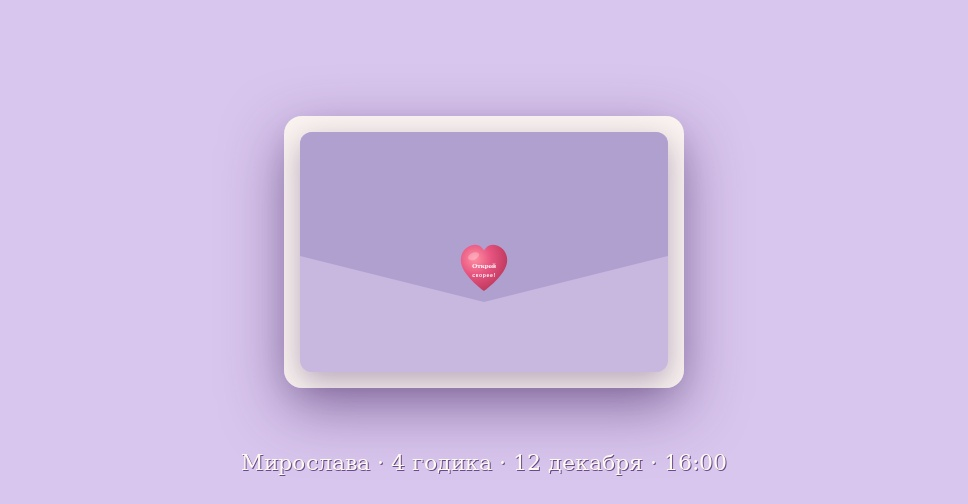
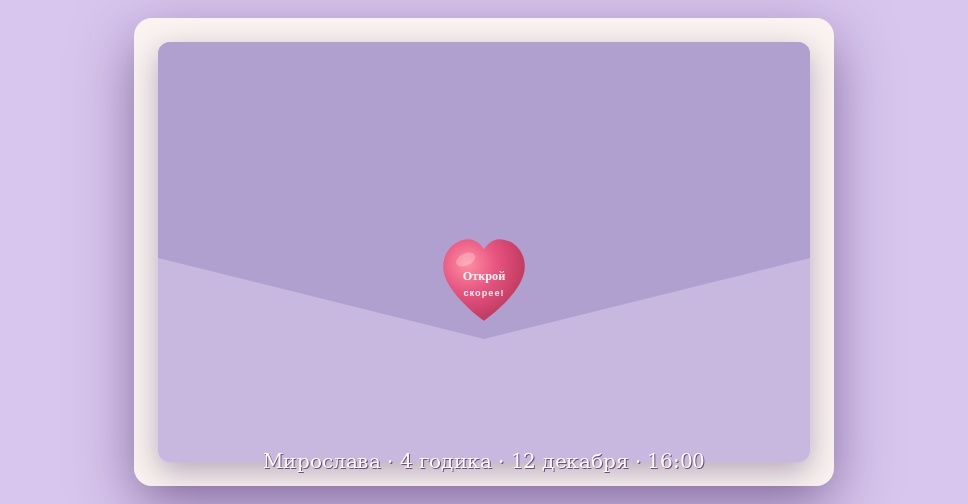
rev8

diff --git a/index.html b/index.html
@@ -8,8 +8,8 @@
 <!-- Open Graph / Превью ссылки -->
 <meta property="og:title" content="Мирочка приглашает!">
 <meta property="og:description" content="Приглашение на день рождения Мирославы! 4 годика · 12 декабря · балет Щелкунчик">
-<meta property="og:image" content="https://miroslavasysoeva.ru/og_preview.jpg?v=14">
-<meta property="og:image:secure_url" content="https://miroslavasysoeva.ru/og_preview.jpg?v=14">
+<meta property="og:image" content="https://miroslavasysoeva.ru/og_preview.jpg?v=16">
+<meta property="og:image:secure_url" content="https://miroslavasysoeva.ru/og_preview.jpg?v=16">
 <meta property="og:image:width" content="968">
 <meta property="og:image:height" content="504">
 <meta property="og:image:alt" content="Приглашение на день рождения Мирославы">
@@ -21,13 +21,13 @@
 <meta name="twitter:card" content="summary_large_image">
 <meta name="twitter:title" content="Мирочка приглашает!">
 <meta name="twitter:description" content="Приглашение на день рождения Мирославы! 4 годика · 12 декабря · балет Щелкунчик">
-<meta name="twitter:image" content="https://miroslavasysoeva.ru/og_preview.jpg?v=14">
+<meta name="twitter:image" content="https://miroslavasysoeva.ru/og_preview.jpg?v=16">
 <meta name="theme-color" content="#b39ddb">
 <meta http-equiv="Cache-Control" content="no-cache, no-store, must-revalidate, max-age=0">
 <meta http-equiv="Pragma" content="no-cache">
 <meta http-equiv="Expires" content="-1">
 <!-- VK / Mail.ru / MAX -->
-<link rel="image_src" href="https://miroslavasysoeva.ru/og_preview.jpg?v=14">
+<link rel="image_src" href="https://miroslavasysoeva.ru/og_preview.jpg?v=16">
 <meta name="mrc-shareable" content="true">
 <meta name="mrc-video" content="false">
 <link href="https://fonts.googleapis.com/css2?family=Marck+Script&family=Comfortaa:wght@400;700&display=swap" rel="stylesheet">
@@ -333,13 +333,13 @@
 
 <meta itemprop="name" content="Мирочка приглашает!">
 <meta itemprop="description" content="Приглашение на день рождения Мирославы! 4 годика · 12 декабря · балет Щелкунчик">
-<meta itemprop="image" content="https://miroslavasysoeva.ru/og_preview.jpg?v=14">
+<meta itemprop="image" content="https://miroslavasysoeva.ru/og_preview.jpg?v=16">
 
 <div class="wrap">
   <div class="env" id="env">
     <div class="card" id="card">
       <div class="card-head">
-        <div class="avatar"><img src="avatar_processed.png?v=34" alt="Мирослава"></div>
+        <div class="avatar"><img src="avatar_processed.png?v=36" alt="Мирослава"></div>
         <h1>Мне 4 годика!</h1>
       </div>
 
@@ -383,6 +383,13 @@
       <div class="section">
         <span class="icon">🎀</span>
         <p><b>Дресс-код:</b> одевай что-то удобное, но нарядное! Принцессы и щелкунчики — welcome</p>
+      </div>
+
+      <div class="section">
+        <span class="icon">🎁</span>
+        <p><b>Wishlist</b></p>
+        <p style="font-size:0.82rem;color:#9788a5;margin-top:6px;">Если хочешь сделать подарок — вот подсказка:</p>
+        <a href="https://wishlist-88d58.web.app/JvPw7QeWzdMg3b2qO2zJ8KfG0wO2/iZU5MAgzSjTYkc7RgSPV/9606b931-911a-44e8-8059-0087c259f7ae" target="_blank" class="map-link">Открыть вишлист</a>
       </div>
 
       <div class="section">
